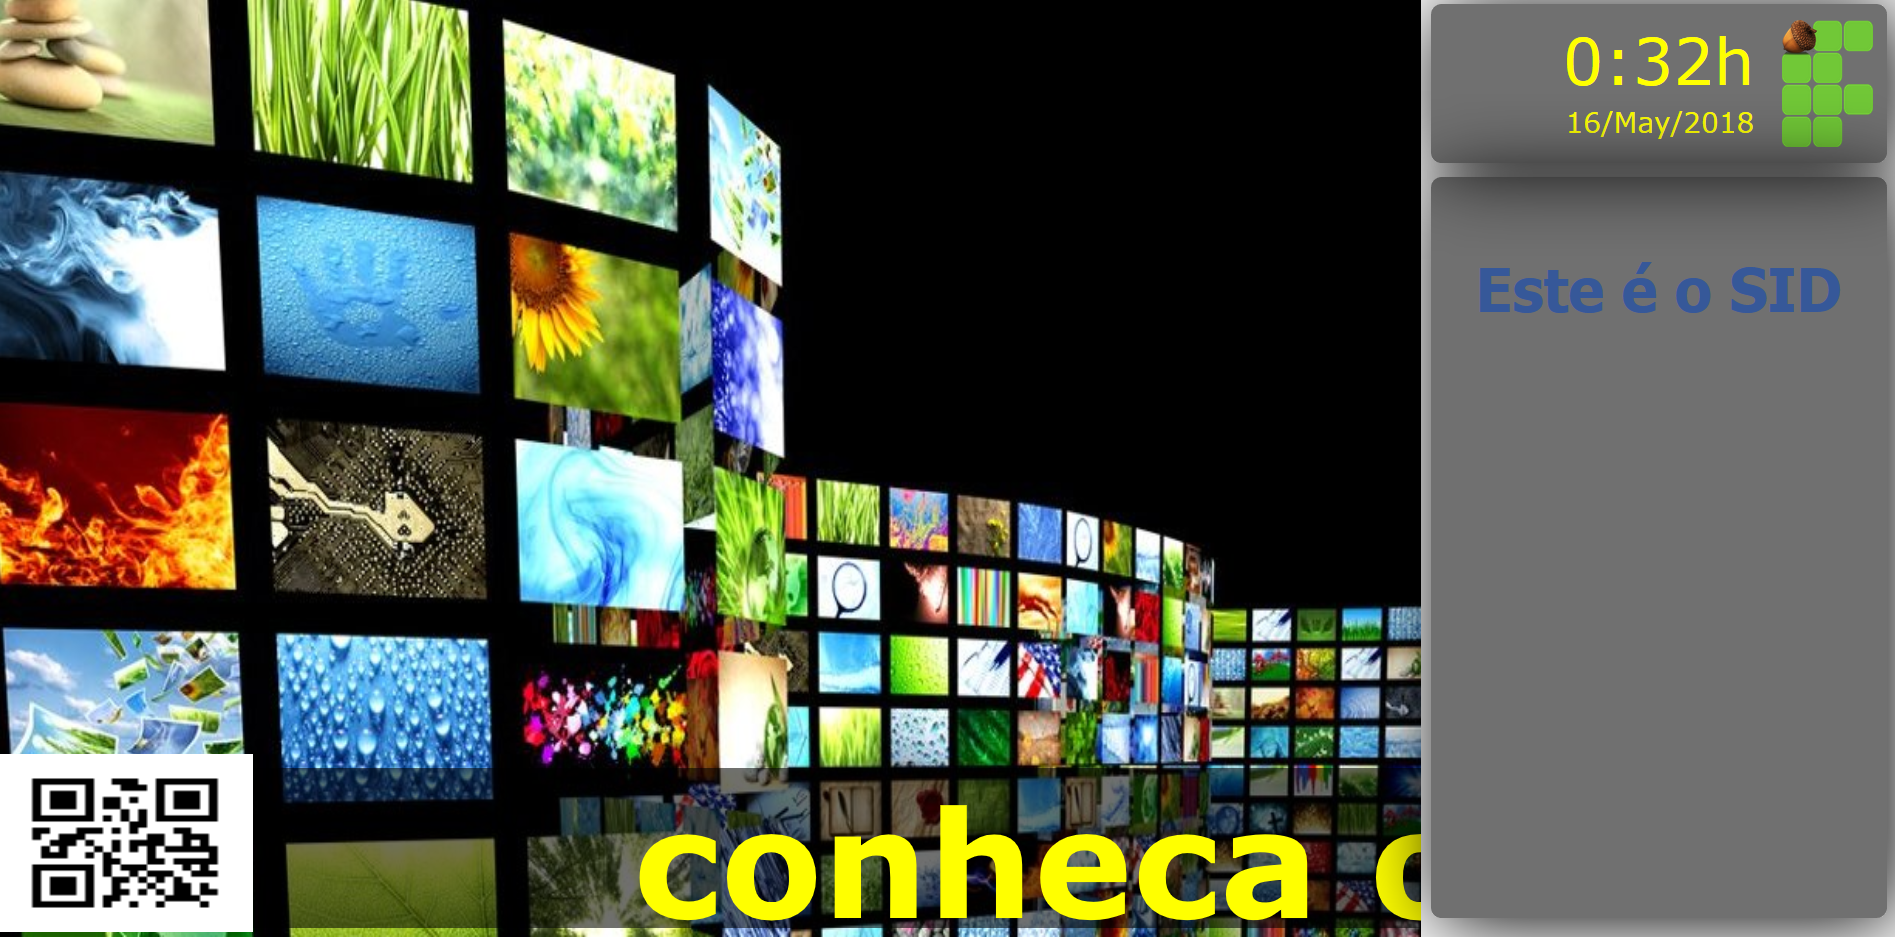
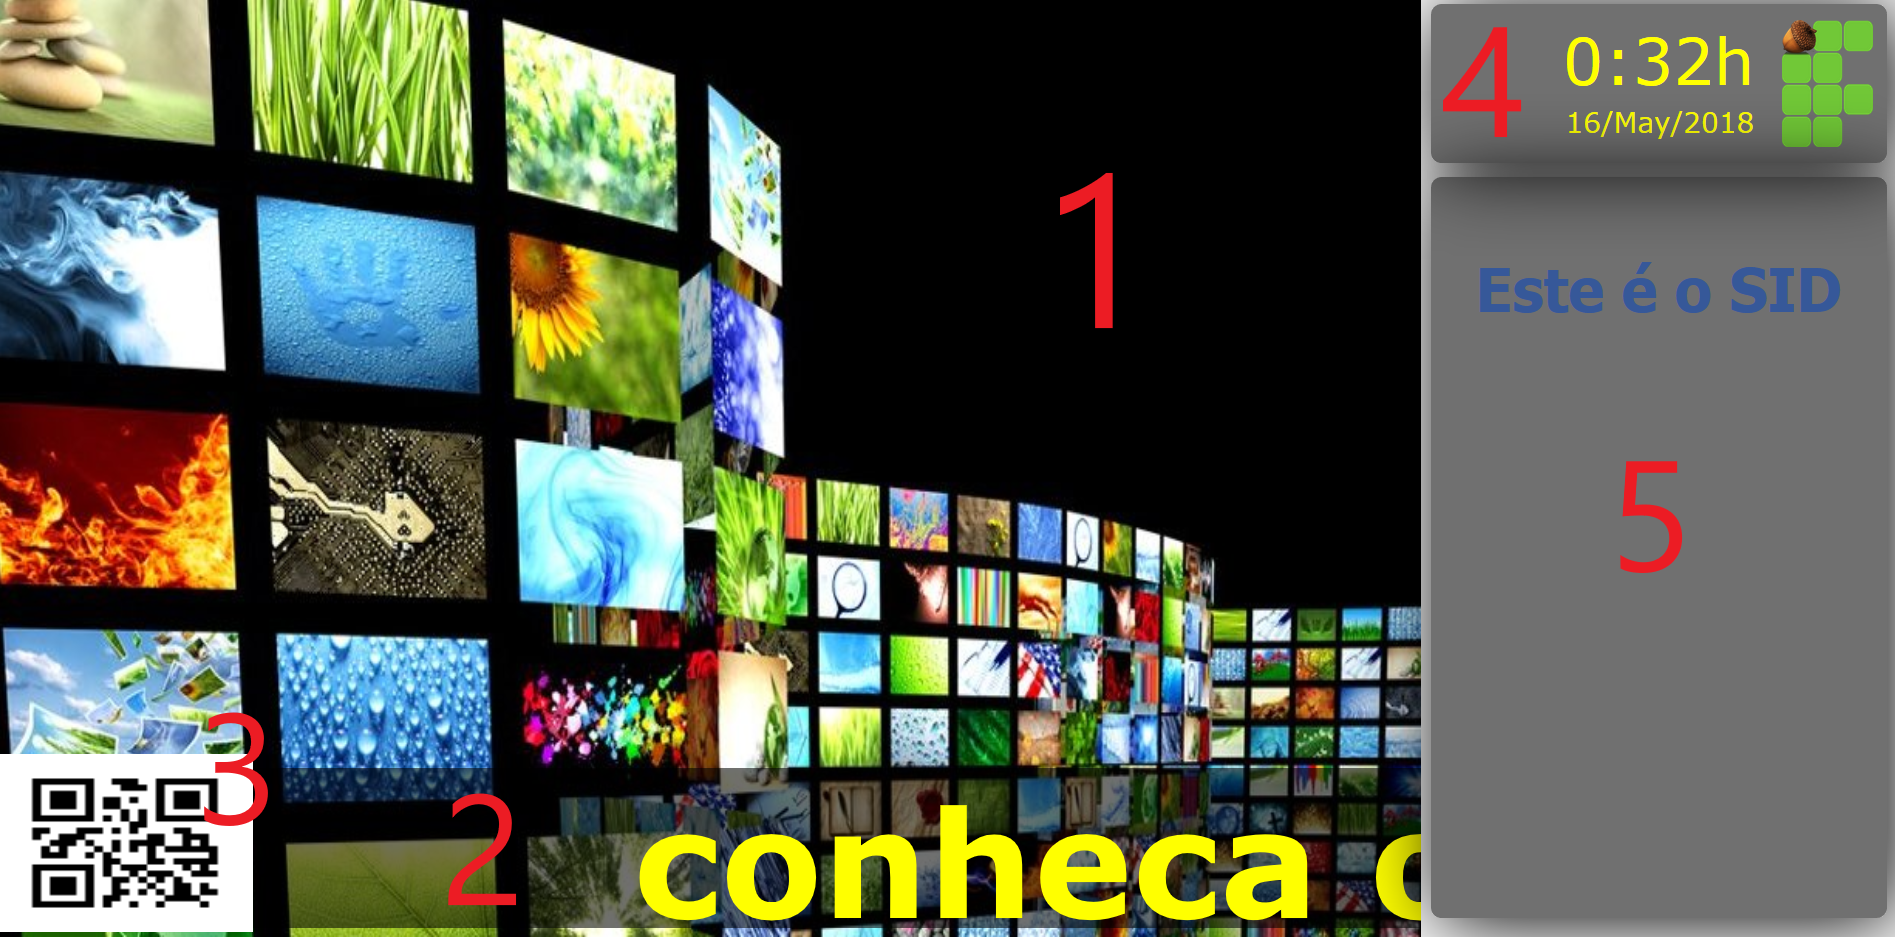
Melhorias no texto do SID
Foi melhorado o texto, com mais conteudo e nas imagens que estao no tcc
foi colocado a numeracao.

diff --git a/projetoFinal2/editaveis/SID.tex b/projetoFinal2/editaveis/SID.tex
@@ -2,23 +2,24 @@
 --------------------- FALAR SOBRE O SID
 
 \section{Visão Geral}
-O SID está estruturado em duas possíveis vertentes, o WEB e o \textit{mobile}, ele foi desenvolvido com o objetivo de oferecer uma aplicação de divulgação que possua integração com as redes sociais mais agil, intuitiva, dinâmica e amigável para o administrador e para o usuário do sistema, com melhor efetividade no processo de disseminação das informações referentes ao Campus. Atendendo ao objetivo principal, onde é divulgação de informações através de uma plataforma WEB e \textit{mobile}.
+O SID está estruturado em duas vertentes, o WEB e o \textit{mobile}, ele foi desenvolvido com o objetivo de oferecer uma aplicação de divulgação que possua integração com as redes sociais de forma ágil, intuitiva, dinâmica e amigável para os administradores e para os usuários comuns, além de melhorar a efetividade do processo de disseminação das informações referentes ao Campus. Atendendo ao objetivo principal, onde é divulgação de informações através de uma plataforma WEB e \textit{mobile}.
 
-Necessitando sempre do uso da rede para realizar atualizações, o SID está dividido em três módulos, o primeiro deles é o administrador, onde é possível fazer o gerenciamento completo do conteúdo que será apresentado no segundo modulo, nesse segundo módulo será apresentado as informações que foram cadastradas no módulo
-administrador e serão propagadas por monitores ou celulares. O terceiro módulo é o \textit{mobile}, onde o usuário poderá ter acesso a todas as divulgações assim como o WEB, mas com o incremento de troca de mensagens entre professores e alunos. 
+Necessitando sempre do uso da rede para realizar atualizações, o SID está dividido em três módulos, o primeiro deles é o administrador, onde é possível fazer o gerenciamento completo do conteúdo que será apresentado no segundo módulo chamado cliente, nesse segundo módulo será apresentado as informações que foram cadastradas no módulo administrador, onde então serão propagadas por monitores ou celulares. O terceiro módulo é o \textit{mobile}, onde o usuário poderá ter acesso a todas as divulgações assim como no módulo cliente, mas com o incremento de troca de mensagens entre professores e alunos. 
 
-A divisão de módulos foi feita para que seja possível atender a arquitetura cliente-servidor, ela mostrou-se necessário para minimizar o processamento do cliente, centralizando o processamento das informações em um sistema mais robusto, ficando a cargo do cliente somente exibir as informações recebidas.
+A divisão de módulos foi feita para que seja possível atender a arquitetura cliente-servidor, ela mostrou-se necessário para minimizar o processamento nos outros dois módulos, centralizando o processamento das informações em um sistema mais robusto, ficando a cargo do outros módulos somente exibir as informações recebidas e realizar pequenos processamentos.
 
-Escrito na linguagem PHP, para estruturação do projeto e a linguagem JavaScript para realização das requisições de trocas de informações entre os módulos. Usa-se também o Banco de dados PostGreSQL, para armazenamento das informações localmente e que os dados sejam persistentes.
+O sistema WEB foi desenvolvido na linguagem PHP, usada para estruturação do projeto, a linguagem JavaScript para realização das requisições de trocas de informações entre os módulos e as linguagens HTML e CSS para desenvolvimento das telas do sistema para os três módulos. Usa-se também o Banco de dados PostGreSQL, para armazenamento das informações localmente e que os dados sejam persistentes.
 
-Baseado em desenvolvimento ágil, com metodologia SCRUM, foram definidos sprints semanais para definição das funcionalidades a serem desenvolvidas ou melhoradas. Essa metodologia se torna importante para que o progresso seja acompanhado em cada parte do seu desenvolvimento.
+Baseado em desenvolvimento ágil, com metodologia SCRUM, foram definidos sprints semanais, comumente marcada as quartas feiras, para definição das funcionalidades a serem desenvolvidas ou melhoradas. Essa metodologia se torna importante para que o progresso seja acompanhado em cada parte do seu desenvolvimento.
 
-No desenvolvimento, foram usados alguns \textit{framework}, O primeiro deles, usado em conjunto com o PHP, foi o ZEND que tem a finalidade de estruturar o código em modelo, visão e controle. Outro \textit{framework} foi o Doctrine, usado para efetivação da comunicação entre o banco de dados e a orientação a objeto. Foi usado também o Framework7 (F7), em conjunto com o cordova, para que fosse possivel o desenvolvimento do modulo mobile.  
+No desenvolvimento, foram usados alguns \textit{framework}, O primeiro deles, usado em conjunto com o PHP, foi o ZEND que tem a finalidade de estruturar o código em modelo, visão e controle. Outro \textit{framework} foi o Doctrine, usado para efetivação da comunicação entre o banco de dados e a orientação a objeto. Foi usado também o Framework7 (F7), em conjunto com o Cordova, para que fosse possível o desenvolvimento do modulo mobile.  
 
 \section{Modulo Administrador}
 Com o uso da estrutura cliente-servidor, esse modulo é responsável por conceder ao usuário administrador a funcionalidade de gerenciar todas as informações do sistema podendo inserir, alterar, e retirar as divulgações, ou seja, fazer todo o gerenciamento das informações que são repassadas ao módulo cliente e \textit{mobile}.
 
---------------- FALAR SOBRE O MODULO
+O sistema de autenticação escolhido foi a login com o Facebook, ferramenta que a própria rede social disponibiliza. Optou-se por ele não somente pela segurança, por ser baseado em sistemas criptográficos, mas também porque algumas funcionalidades do sistema dependem de dados que são recuperados após o processo de autenticação.
+
+Os elementos presentes no módulo e suas funcionalidades são descritas abaixo: 
 
 \begin{enumerate}
    \item Legenda: É um campo de texto destinado a informação a ser repassada de forma sucinta e clara ao usuário final por intermédio cliente ou mobile. 
@@ -28,39 +29,54 @@ Com o uso da estrutura cliente-servidor, esse modulo é responsável por concede
    \item Imagem: Será a imagem enviada para o Facebook, para o cliente e para o mobile. Essa imagem pode ser um \textit{banner} de apresentação de um evento, por exemplo.
  \end{enumerate}
 
-A Figura \ref{fig:administrador1}, consiste em representar como os elementos supracitados são inseridos a partir da visão do operador do sistema no módulo administrador. O diagrama de sequência para esta funcionalidade encontra-se na
+A Figura \ref{fig:administrador1}, consiste em representar como os elementos supracitados são inseridos a partir da visão do operador do sistema no módulo administrador. O diagrama de sequência para esta funcionalidade encontra-se na imagem \ref{fig:diagrama1}
  
- --------- COLOCAR O DIAGRAMA -----------
-
- 
- \begin{figure}[H]
+\begin{figure}[H]
 \centering
-\includegraphics[scale=0.6]{figuras/administrador1}
+\includegraphics[scale=0.5]{figuras/administrador1}
 \caption{Página de inserção no módulo administrador.}
 \label{fig:administrador1}
 \end{figure}
 
-O campo imagem é repassado para a rede social como \textit{source}, já o campo texto da publicação é repassado como (\textit{messagem}). Essa troca de nomes é feito pois a API requisita exatamente esses parâmetros.
+\maxwell{COLOCAR DIAGRAMA DE SEQUENCIA}
 
-Todos os campos tem preenchimento obrigatório, entretanto, somente o campo imagem e o campo texto da publicação são enviados ao Facebook. Os outros campos não são enviados a rede social, ficam armazenados apenas no banco de dados.
+\maxwell{FALAR SOBRE OS CAMPOS E SUAS LIMITAÇÕES}
 
-Caso durante o envio alguma das transações não sejam efetivadas, será retornado a mensagem de erro, assim como a mensagem de sucesso, caso não ocorra nenhum erro.
+O campo imagem é repassado para a API como parâmetro \textit{source}, já o campo texto da publicação é repassado como \textit{messagem}. Todos os campos são de preenchimento obrigatório, entretanto, somente os campos imagem e texto da publicação são enviados ao Facebook. Os outros campos não são enviados a rede social, ficam armazenados apenas no banco de dados.
+
+Se durante o envio alguma das transações não forem efetivadas, será retornado a mensagem de erro, assim como retornará a mensagem de sucesso, caso não ocorra nenhum erro.
 
 \section{Modulo Cliente}
-que, por sua vez, de forma simples, o modulo cliente tem apenas o trabalho de apresentar as divulgações de maneira atrativa e dinâmica para o usuário, enquanto o \textit{mobile} é responsável por apresenta as divulgações e fornece a possibilidade de troca de mensagens entre professores e alunos. 
-Figura \ref{fig:cliente1}
+O modulo cliente tem a função de apresentar as divulgações de maneira atrativa, intuitiva e dinâmica para o usuário. A estrutura e organização do que será apresentado, está disposto na  figura \ref{fig:cliente1}.
 
--- FALAR SOBRE O MODULO
+Os elementos que compõe a página que será apresentada, são dividos em cinco itens, que estão descritos abaixo.
 
+\begin{enumerate}
+   \item Imagem: O conteúdo, poderá ser apresentado como uma imagem estática ou como GIF (imagem com animação), não oferecendo suporte a vídeos, até o momento, mas que poderá ser implementado em versões futuras. 
+   \item Legenda: A legenda é apresentada em movimento linear da direita para a esquerda, possibilitando a leitura de forma dinâmica de toda a frase.
+   \item QR Code: Imagem, que por meio de uma aplicativo celular, possibilita a leitura que contem o \textit{link} de acesso a publicação publicada na rede social Facebook.
+   \item Horário: Relógio que apresentará a data e hora atual.  
+   \item Comentários: Espaço que será apresentado comentários publicados e devidamente moderados.
+ \end{enumerate}
+  
 \begin{figure}[H]
 \centering
-\includegraphics[scale=0.4]{figuras/cliente1}
+\includegraphics[scale=0.3]{figuras/cliente1}
 \caption{Página do cliente}
 \label{fig:cliente1}
 \end{figure}
 
+Usando Javascript com suporte a biblioteca JQuery, o módulo cliente efetua uma requisição ao servidor que receberá como resposta um JSON, contendo o número de posições equivalentes ao número de publicações válidas. Cada posição desse JSON terá três variáveis, são elas: 'bd','comentarios' e 'imagem'. 
+
+A 'bd', contém uma \textit{array} de duas posições, contendo 2 \textit{string}, sendo elas o legenda e link, esses dados foram armazenados pelo servidor no banco de dados, na criação da publicação. A 'comentarios' é um array de \textit{string} que pode possuir zero ou mais itens, cada item representa um comentário na publicação, onde cada item possui a data da criação, quem fez, a mensagem, a foto e o id do comentário. Já a 'imagem' é uma \textit{string} de é um arquivo codificado em base64, que será descodificado pelo módulo.
+
+O conteúdo recuperado da variável 'bd', será apresentado nos itens 2 e 3, respectivamente. Já o conteúdo recuperado da variável 'comentarios' será apresentado no item. Enquanto os da variável 'imagem', será descodificado e apresentado em forma de imagem no item 1.
+
+
+\maxwell{FALAR MAIS SOBRE AS PARTES (qrcode, legenda, comentários)}
 
 \section{Modulo Mobile}
+O \textit{mobile} é responsável por apresenta as divulgações e disponibilizar a possibilidade de troca de mensagens entre professores e alunos que possuam um login e senha. 
 Figura \ref{fig:mobile1}
 
 \maxwell{FALAR SOBRE O MODULO}
@@ -72,6 +88,7 @@ Figura \ref{fig:mobile1}
 \label{fig:mobile1}
 \end{figure}
 
+\maxwell{FALAR SOBRE OS BOTOES}
 
 \section{Arquitetura}
 \begin{figure}[H]
@@ -88,23 +105,13 @@ Figura \ref{fig:mobile1}
 \maxwell{COLOCAR MODELO ENTIDADE RELACIONAMENTO}
 
 \section{Integração}
-Para acesso a funções restritas do sistema é necessário que um \textit{login} seja feito. Para isso, é utilizado a ferramenta de \textit{login} do Facebook em conjunto com a Graph. \maxwell{Para funcionamento é requisitado alguns parâmetros obrigatórios, são eles: app\underline{{ }}id, app\underline{{ }}secret, default\underline{{ }}graph\underline{{ }}version e fileUpload.
+Para acesso a funções restritas do sistema é necessário que um \textit{login} seja feito. Para isso, é utilizado a ferramenta de \textit{login} do Facebook, ela oferece um botão para ser colocado na página, esse botão tem a finalidade de iniciar o processo de login, após ser clicado é feito a chamada do método ''getRedirectLoginHelper``, onde é passado as informações de permissões que serão necessárias e o endereço de callback, que será a página de retorno caso o processo seja efetivado. O endereço de callback deve ser o mesmo informado no aplicativo criado na página da rede social.
 
-\begin{itemize}
-\item O app\underline{{ }}id e o app\underline{{ }}secret é o id único de cada aplicativo vinculado a rede social, esse id é criado pelo Facebook no momento da criação do que será o seu aplicativo, o app\underline{{ }}id é publico, enquanto o app\underline{{ }}secret é secreto.
+Após o login, as informações usadas são guardadas na sessão do usuário, para usos posteriores, além disso, todo o processo de armazenamento de informações, envios ao Facebook e retornos de solicitações não devem ser visíveis ao usuário. 
 
-\item O parâmetro defalt\underline{{ }}graph\underline{{ }}version irá identificar qual versão da Graph o seu programa irá usar.
+Qualquer divulgação inserida na pagina do SID no Facebook utiliza-se do nó “photo”, ou seja, a divulgação que o SID repassa à Graph API contém a mesma estrutura de uma imagem postada por um usuário convencional desta rede social.
 
-\item fileUpload é o parâmetro necessário para informar se será enviado arquivo de imagem ou não.
-\end{itemize}}
-
-A rede social oferece um botão para ser colocado na página, esse botão faz com que o processo de login seja iniciado, então é feito a chamada do método ''getRedirectLoginHelper``, para ele é passado as informações de permissões que serão necessárias e o endereço de callback, que será o endereço de retorno caso o processo seja efetivado. O endereço de callback deve ser o mesmo informado no aplicativo criado na página da rede social.
-
-Após o login, as informações usadas são guardadas na sessão do usuário, para usos posteriores, além disso, todo o processo deve ser transparente ao usuário. 
-
-Qualquer divulgação inserida na pagina do SID no Facebook utiliza-se do nó “photo”, ou seja, a divulgação que o SID repassa à Graph API contém a mesma estrutura de uma imagem postada por um usuário convencional desta rede social. 
-
-A Figura \ref{fig:imgfacebook1} apresenta como ficará uma publicação no Facebook após o uso do SID para criação da mesma. Nela é apresentado quem fez a publicação, o texto e a imagem que foi informado durante a criação, com uso do SID.
+A Figura \ref{fig:imgfacebook1} apresenta como ficará uma publicação no Facebook após o uso do SID para criação da mesma. Nela é apresentado informações como quem realizou a publicação, o texto e a imagem que foram informados durante a criação da divulgação pelo SID.
 
 \begin{figure}[H]
 \centering
@@ -113,7 +120,13 @@ A Figura \ref{fig:imgfacebook1} apresenta como ficará uma publicação no Faceb
 \label{fig:imgfacebook1}
 \end{figure}
 
-O envio das informações para o Facebook é feita estritamente ao nó ''photo``, com o uso do método \textit{post} em conjunto com a Graph, a rede social recebe os parâmetros e faz a criação de um novo objeto, criando uma nova aresta vinculado a página, onde o retorno da requisição é o id desse novo objeto criado. Os parâmetros obrigatórios para criação do novo objeto são os mesmos do usados no login, com adição do: id\underline{{ }}pagina e do token. 
+Com o uso do método \textit{post} em conjunto com a Graph, a rede social recebe os parâmetros e faz a criação de um novo objeto, criando uma nova aresta que terá como vértice a publicação e a página. O retorno da requisição é o id desse novo vértice criado. 
+
+
+
+
+
+\maxwell{Para criação de um novo vértice são obrigatórios algumas permissões, os mesmos do usados no login, com adição do: id\underline{{ }}pagina e do \textit{token}. 
 
 \begin{itemize}
 \item O \textit{token} é um conjunto de caracteres que identifica para o Facebook as autorizações que a aplicativo possui.
@@ -121,10 +134,7 @@ O envio das informações para o Facebook é feita estritamente ao nó ''photo``
 \item O id\underline{{ }}pagina é o identificador único da sua página ou perfil.
 \end{itemize}
 
-É possível também solicitar dados referentes a postagens efetivadas. Para isso é necessário a passagem de alguns parâmetros no método ''get`` e a Graph. Assim como no ''post``, o ''get`` usa todos os parâmetros com exceção do id\underline{{ }}pagina, onde será informado o id\underline{{ }}publicação em substituição do da página.
-
-Com essa requisição é possível recuperar diversas informações referentes a publicação, informações como \textit{url}, comentários, \textit{likes}, data, hora, foto de perfil e nome do usuário que realizou o comentário. O retorno da requisição, se feita com sucesso, retornará as informações solicitadas.
- 
+É possível também solicitar dados referentes a postagens efetivadas. Para isso é necessário a passagem de alguns parâmetros no método ''get`` e a Graph. Assim como no ''post``, o ''get`` usa todos os parâmetros com exceção do id\underline{{ }}pagina, onde será informado o id\underline{{ }}publicação em substituição do da página.}
 
 \section{Possível solução para Implementação - Rapberry}
 Desde a sua invenção em 1971, microprocessadores vem sendo usados no desenvolvimento dos mais variados tipos de eletrônicos ou outros equipamentos, substituindo até mesmo sistemas mecânicos. Algo que vai além de um simples software, os microprocessadores devem ser capazes controlar as ações de um dispositivo. \cite{rosenstark2007}
